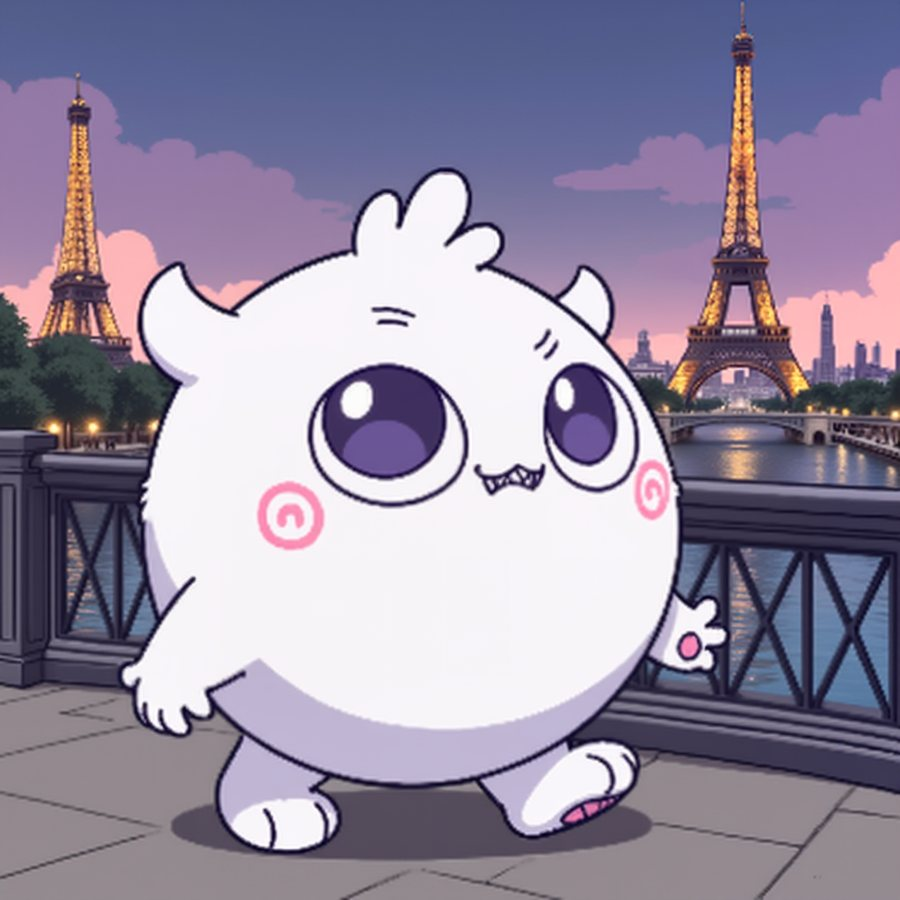
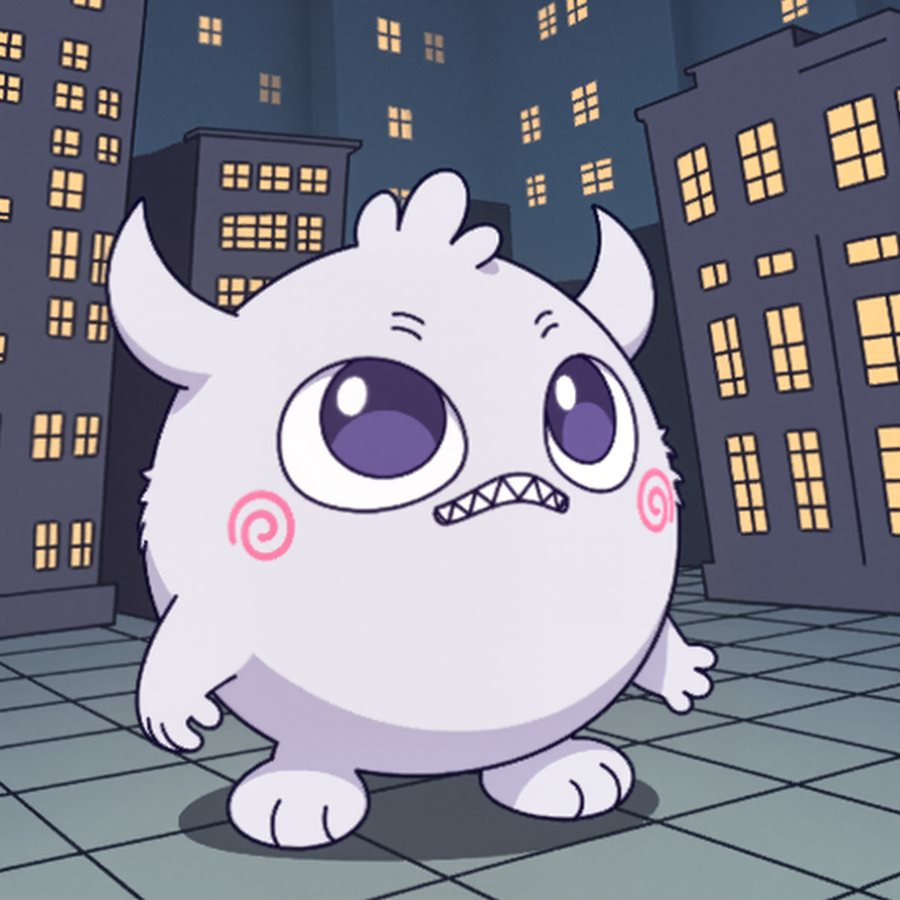
New DOKIS concept picks; T-Rex render on the Storyboards tile

diff --git a/Storyboards.html b/Storyboards.html
@@ -95,18 +95,18 @@
       </dl>
       <p class="case-body">
         I created concepts for designers based across the globe to build from: the DOKIS characters placed in
-        new settings and situations, like a London bridge, Paris at dusk, a hockey rink, a city at
-        night. The team developed them into finished art that went out on DOKIS's socials. I also
+        new settings and situations, like the moon, London, a city street at night, or a new
+        outfit and attitude. The team developed them into finished art that went out on DOKIS's socials. I also
         reviewed what the team produced to keep it on-model and on-brand, and set up a ComfyUI
         pipeline trained on the characters so new concepts could be turned around quickly.
       </p>
       <div class="board-grid three">
-        <img loading="lazy" src="./assets/dokis/dokis_concept_0.jpg" alt="DOKIS concept — on a bridge by the river">
-        <img loading="lazy" src="./assets/dokis/dokis_concept_1.jpg" alt="DOKIS concept — London">
-        <img loading="lazy" src="./assets/dokis/dokis_concept_5.jpg" alt="DOKIS concept — Paris at dusk">
-        <img loading="lazy" src="./assets/dokis/dokis_concept_2.jpg" alt="DOKIS concept — hockey rink">
-        <img loading="lazy" src="./assets/dokis/dokis_concept_3.jpg" alt="DOKIS concept — two Dokis face off at puck drop">
-        <img loading="lazy" src="./assets/dokis/dokis_concept_4.jpg" alt="DOKIS concept — city at night">
+        <img loading="lazy" src="./assets/dokis/dokis_concept_0.jpg" alt="DOKIS concept — on the moon, waving to Earth">
+        <img loading="lazy" src="./assets/dokis/dokis_concept_1.jpg" alt="DOKIS concept — London, by Big Ben">
+        <img loading="lazy" src="./assets/dokis/dokis_concept_2.jpg" alt="DOKIS concept — Big Doki in the city">
+        <img loading="lazy" src="./assets/dokis/dokis_concept_3.jpg" alt="DOKIS concept — in sunglasses">
+        <img loading="lazy" src="./assets/dokis/dokis_concept_4.jpg" alt="DOKIS concept — Big Doki, dressed up — &ldquo;Ok&rdquo;">
+        <img loading="lazy" src="./assets/dokis/dokis_concept_5.jpg" alt="DOKIS concept — a city street at night">
       </div>
     </section>
 

diff --git a/index.html b/index.html
@@ -97,7 +97,7 @@
         </a>
 
         <a href="Storyboards.html" class="work-item">
-          <img src="./assets/storyboards/utbaseball_10.jpg" alt="Storyboard panel — player batting, UT Baseball drone show" loading="lazy">
+          <img src="./assets/storyboards/trex.jpg" alt="Drone T-Rex from the Kipona storyboard" loading="lazy">
           <div class="work-label"><span>Storyboards — drone shows, DOKIS, Vox Temporis</span></div>
         </a>
 
